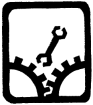
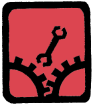
Aesthetic changes: node stat menu back next to nodes, sabotage action temp button easier to see.

diff --git a/UnityProject/Assets/Graph/Nodes/NodeStatMenu.cs b/UnityProject/Assets/Graph/Nodes/NodeStatMenu.cs
@@ -9,17 +9,11 @@ public class NodeStatMenu : MonoBehaviour {
 	private bool isShown = false;
 	private GUIStyle style;
 
-	// Use this for initialization
 	void Start () {
 		style = new GUIStyle();
 		style.normal.textColor = Color.black;
 		style.fontStyle = FontStyle.Bold;
         style.normal.background = InvestigateAction.MakeTextureOfColor(new Color(0.6f, 0.6f, 0.6f, 0.7f));
-	}
-	
-	// Update is called once per frame
-	void Update () {
-	
 	}
 
 	void OnMouseEnter() {		
@@ -47,12 +41,14 @@ public class NodeStatMenu : MonoBehaviour {
 
             Vector2 textSize = style.CalcSize(new GUIContent(text));
 
-            //float radius = GetComponent<CircleCollider2D>().radius;
-            //Vector3 leftEdgeScreenPosition = Camera.main.WorldToScreenPoint(new Vector3(transform.position.x - radius - 0.5f, transform.position.y, transform.position.z));
-            //Vector3 screenPosition = Camera.main.WorldToScreenPoint(transform.position);
-            //new Rect(leftEdgeScreenPosition.x - textSize.x, Screen.height - screenPosition.y - textSize.y / 2.0f, textSize.x + 5, textSize.y)
+            bool isNodeMenuShown = GetComponent<NodeMenu>().isShown;
+            float radius = GetComponent<CircleCollider2D>().radius;
+            float x = transform.position.x - radius + (isNodeMenuShown ? -0.5f : 0);
+            Vector3 leftEdgeScreenPosition = Camera.main.WorldToScreenPoint(new Vector3(x, transform.position.y, transform.position.z));
+            Vector3 screenPosition = Camera.main.WorldToScreenPoint(transform.position);
+            Rect r = new Rect(leftEdgeScreenPosition.x - textSize.x, Screen.height - screenPosition.y - textSize.y / 2.0f, textSize.x + 5, textSize.y);
 
-            GUI.Label(new Rect(Screen.width - textSize.x - 15, Screen.height - textSize.y - 10, textSize.x + 5, textSize.y), text, style);
+            GUI.Label(r, text, style);
 		}
 	}
 
